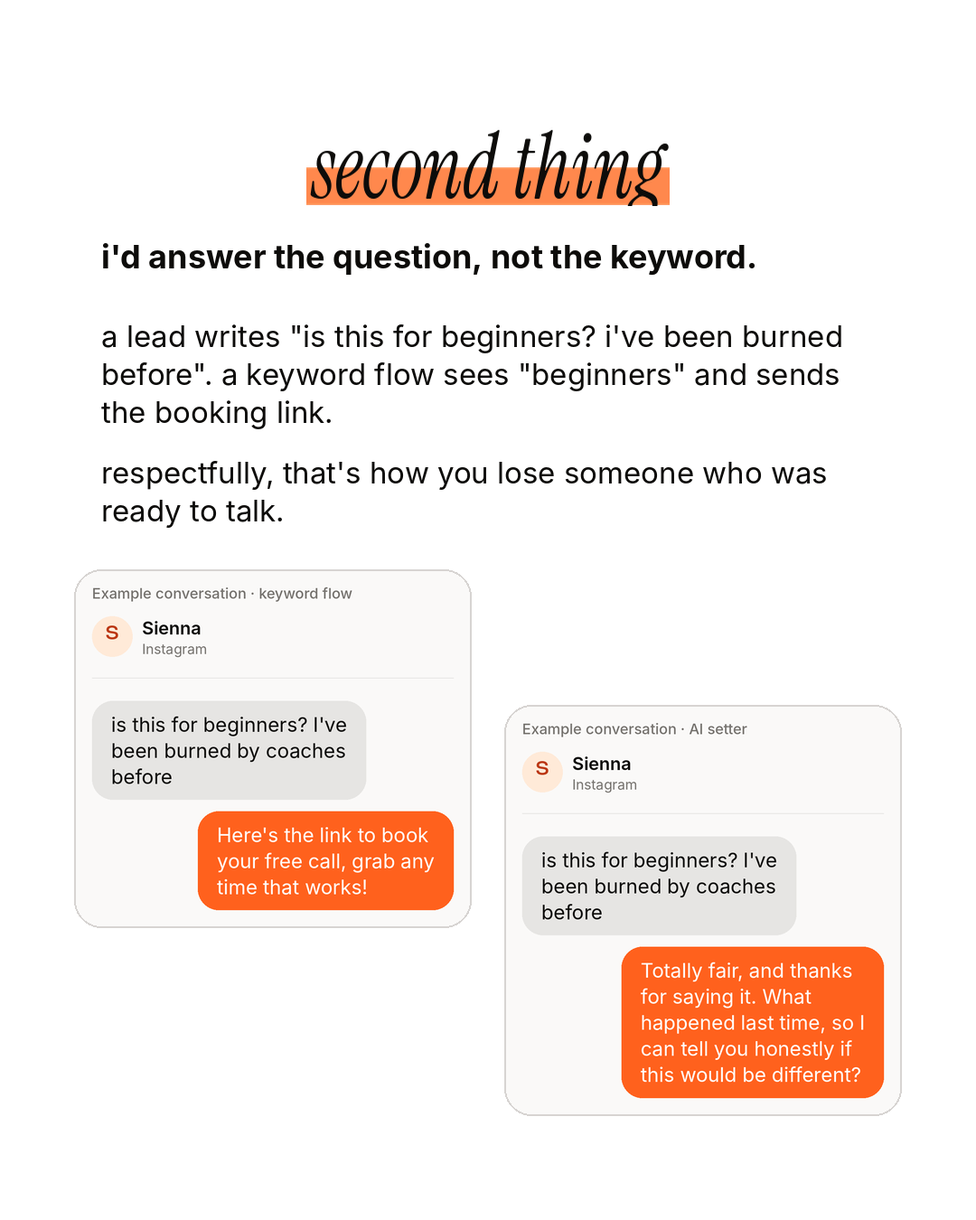
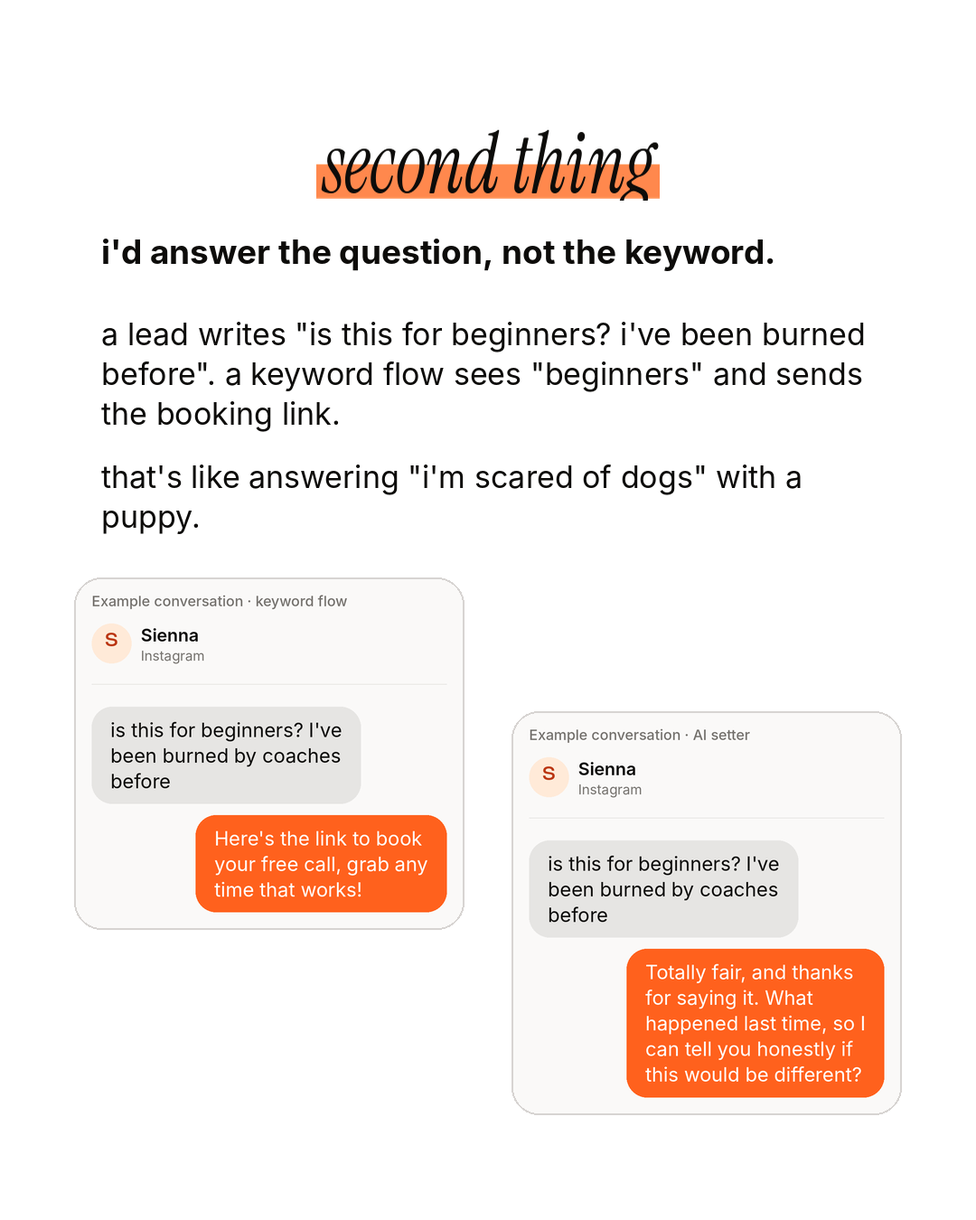
Carrousels v3 : première personne, humour, texte qui remplit la slide
- retour du fondateur noté en règle avant correction
- carrousel.py : taille de texte automatique (la plus grande qui tient),
  titres sans mot orphelin, graphiques qui grossissent avec le texte
- textes et légendes des 3 carrousels réécrits à la 1re personne
- page de revue republiée (même lien)

diff --git a/CONTENU/00_STRATEGIE/revues/2026-10-10_revue.html b/CONTENU/00_STRATEGIE/revues/2026-10-10_revue.html
@@ -108,7 +108,7 @@ hr.sep { border: none; border-top: 1px solid var(--line); margin: 8px 0 0; }
   <header class="top">
     <div class="eyebrow">Revue du lot · <span id="count">3</span> posts</div>
     <h1>Chaque post comme il apparaîtra sur Instagram</h1>
-    <p class="lede"><b>Nouvelle version du 10/10 après ton retour : les 3 carrousels sont refaits dans le style du compte de référence (titres étirés, surligneur orange, images du produit, ton parlé).</b> Fais défiler les slides, lis la légende, puis coche OK ou À corriger. Tes retours sont enregistrés ici et je les relis directement ; chaque retour devient une règle avant correction. Rien n'est programmé sans ton accord, post par post.</p>
+    <p class="lede"><b>Version 3 du 10/10, après ton 2e retour : tout est à la 1re personne (« i » = toi, le fondateur), phrases simples avec une blague par-ci par-là, et le texte grossit pour remplir chaque slide.</b> Fais défiler les slides, lis la légende, puis coche OK ou À corriger. Tes retours sont enregistrés ici et je les relis directement ; chaque retour devient une règle avant correction. Rien n'est programmé sans ton accord, post par post.</p>
   </header>
 
   <div class="bar">
@@ -128,7 +128,7 @@ hr.sep { border: none; border-top: 1px solid var(--line); margin: 8px 0 0; }
   <section id="panel-profile" role="tabpanel" aria-labelledby="tab-profile" hidden style="display:grid;gap:18px"></section>
 </div>
 
-<script id="data" type="application/json">{"posts": [{"id": "261010_CAR_S1_AV1_if-i-were-a-coach", "format": "carrousel", "segment": "S1 et S2", "avatar": "AV1", "role": "candidat à l'épingle n° 1 (présentation par la valeur)", "cta": "lien en bio (ManySetter pas encore branché sur le compte)", "verbatims": ["rd13", "rd91", "rd43", "rd22", "mc07", "rd17", "mc01"], "caption": "Instagram DMs for coaches: if I sold my coaching in the DMs, here's exactly how I'd handle my inbox.\n\nThe comments came in, the guide went out, and then the real job starts: \"how much?\", \"is this for beginners?\", \"I'll think about it\". Three things I'd change, starting tonight.\n\n1. Send the price and one question in the same message, never the price and silence.\n2. Answer the question, not the keyword.\n3. Only send your calendar to the right people, and give everyone else something useful.\n\nHow many of the 3 do you already do? Tell me in the comments.\n\nBuild your setter free, link in bio.\n\n#instagramdms #onlinecoach #manychat", "slides": ["posts/261010_CAR_S1_AV1_if-i-were-a-coach/slide-01.png", "posts/261010_CAR_S1_AV1_if-i-were-a-coach/slide-02.png", "posts/261010_CAR_S1_AV1_if-i-were-a-coach/slide-03.png", "posts/261010_CAR_S1_AV1_if-i-were-a-coach/slide-04.png", "posts/261010_CAR_S1_AV1_if-i-were-a-coach/slide-05.png", "posts/261010_CAR_S1_AV1_if-i-were-a-coach/slide-06.png", "posts/261010_CAR_S1_AV1_if-i-were-a-coach/slide-07.png", "posts/261010_CAR_S1_AV1_if-i-were-a-coach/slide-08.png", "posts/261010_CAR_S1_AV1_if-i-were-a-coach/slide-09.png", "posts/261010_CAR_S1_AV1_if-i-were-a-coach/slide-10.png"]}, {"id": "261010_CAR_S2_AV2_which-reply-books", "format": "carrousel", "segment": "S2", "avatar": "AV2", "role": "vote chiffré (hypothèse H2)", "cta": "lien en bio (ManySetter pas encore branché sur le compte)", "verbatims": ["rd13", "rd91", "rd14", "mc01"], "caption": "How to answer \"how much is it?\" in your Instagram DMs, and still book the call.\n\nSame lead, same question, 4 replies. Only one of them answers the price and learns who the lead is. Swipe for the vote, then for why the other three lose the lead.\n\n1, 2, 3 or 4? Tell me your number in the comments.\n\nThese are example conversations, not real clients. Want to see how an AI setter would answer on your own offer? Build your setter free, link in bio.\n\n#instagramdms #highticketsales #appointmentsetter", "slides": ["posts/261010_CAR_S2_AV2_which-reply-books/slide-01.png", "posts/261010_CAR_S2_AV2_which-reply-books/slide-02.png", "posts/261010_CAR_S2_AV2_which-reply-books/slide-03.png", "posts/261010_CAR_S2_AV2_which-reply-books/slide-04.png", "posts/261010_CAR_S2_AV2_which-reply-books/slide-05.png", "posts/261010_CAR_S2_AV2_which-reply-books/slide-06.png", "posts/261010_CAR_S2_AV2_which-reply-books/slide-07.png", "posts/261010_CAR_S2_AV2_which-reply-books/slide-08.png"]}, {"id": "261010_CAR_S1_AV1_things-coaches-do", "format": "carrousel", "segment": "S1", "avatar": "AV1", "role": "contournements, autodérision (série « Things coaches do before… »)", "cta": "lien en bio (ManySetter pas encore branché sur le compte)", "verbatims": ["rd01", "rd40", "rd85", "rd86", "mc03", "rd17"], "caption": "Instagram DMs for coaches: the things we all did to keep up when a post worked a little too well.\n\nDMing 40 people by hand. Paying a friend to reply. Voice notes to sound more human. A notes app full of copy and paste. Following up once and feeling desperate about it.\n\nWhich number are you? Tell me in the comments, no judgment here.\n\nManySetter is an AI setter for Manychat. Your flow still sends the first message, and the setter takes over when the lead replies. Build your setter free, link in bio.\n\n#instagramdms #onlinecoach #manychat", "slides": ["posts/261010_CAR_S1_AV1_things-coaches-do/slide-01.png", "posts/261010_CAR_S1_AV1_things-coaches-do/slide-02.png", "posts/261010_CAR_S1_AV1_things-coaches-do/slide-03.png", "posts/261010_CAR_S1_AV1_things-coaches-do/slide-04.png", "posts/261010_CAR_S1_AV1_things-coaches-do/slide-05.png", "posts/261010_CAR_S1_AV1_things-coaches-do/slide-06.png", "posts/261010_CAR_S1_AV1_things-coaches-do/slide-07.png"]}], "profile": {"handle": "manysetter", "handle_note": "nom de compte provisoire : le compte de publication n'est pas encore choisi", "name_options": [{"label": "A (recommandé)", "text": "ManySetter | AI DM Setter for Manychat"}, {"label": "B", "text": "ManySetter | AI Appointment Setter for DMs"}], "bio_options": [{"label": "A (recommandée)", "text": "AI setter for Manychat: qualifies your DMs, books the call.\nTested by 100+ marketing agencies.\nBuild your setter free, no card to start 👇"}, {"label": "B", "text": "Keep your Manychat, add the setter.\nIt qualifies your Instagram DMs and books the call.\nFor coaches who sell on a call 👇"}], "link": "manysetter.com", "pins": ["261010_CAR_S1_AV1_if-i-were-a-coach", "261010_CAR_S2_AV2_which-reply-books"], "grid_order": ["261010_CAR_S1_AV1_things-coaches-do", "261010_CAR_S2_AV2_which-reply-books", "261010_CAR_S1_AV1_if-i-were-a-coach"], "placeholders": ["Épingle n° 3 : « not for you if… » (prochain lot)", "Reel d'Ivy (après validation de sa planche)", "Carrousel du lot 2", "Image publiée en reel", "Carrousel du lot 2", "Reel d'Ivy"]}}</script>
+<script id="data" type="application/json">{"posts": [{"id": "261010_CAR_S1_AV1_if-i-were-a-coach", "format": "carrousel", "segment": "S1 et S2", "avatar": "AV1", "role": "candidat à l'épingle n° 1 (présentation par la valeur)", "cta": "lien en bio (ManySetter pas encore branché sur le compte)", "verbatims": ["rd13", "rd91", "rd43", "rd22", "mc07", "rd17", "mc01"], "caption": "Instagram DMs for coaches: if I sold my coaching in the DMs, here's exactly how I'd handle my inbox.\n\nThe comments came in, the guide went out, and then the real job starts: \"how much?\", \"is this for beginners?\", \"I'll think about it\". Usually at 11:47 pm, from the couch. Here are the three things I'd change tonight.\n\n1. I'd send the price and one question in the same message. Never the price and silence.\n2. I'd answer the question, not the keyword.\n3. I'd only send my calendar to the right people, and give everyone else something useful.\n\nHow many of the 3 do you already do? Tell me in the comments. Zero is a valid answer.\n\nI built ManySetter, an AI setter for Manychat. Build your setter free, link in bio.\n\n#instagramdms #onlinecoach #manychat", "slides": ["posts/261010_CAR_S1_AV1_if-i-were-a-coach/slide-01.png", "posts/261010_CAR_S1_AV1_if-i-were-a-coach/slide-02.png", "posts/261010_CAR_S1_AV1_if-i-were-a-coach/slide-03.png", "posts/261010_CAR_S1_AV1_if-i-were-a-coach/slide-04.png", "posts/261010_CAR_S1_AV1_if-i-were-a-coach/slide-05.png", "posts/261010_CAR_S1_AV1_if-i-were-a-coach/slide-06.png", "posts/261010_CAR_S1_AV1_if-i-were-a-coach/slide-07.png", "posts/261010_CAR_S1_AV1_if-i-were-a-coach/slide-08.png", "posts/261010_CAR_S1_AV1_if-i-were-a-coach/slide-09.png", "posts/261010_CAR_S1_AV1_if-i-were-a-coach/slide-10.png"]}, {"id": "261010_CAR_S2_AV2_which-reply-books", "format": "carrousel", "segment": "S2", "avatar": "AV2", "role": "vote chiffré (hypothèse H2)", "cta": "lien en bio (ManySetter pas encore branché sur le compte)", "verbatims": ["rd13", "rd91", "rd14", "mc01"], "caption": "How to answer \"how much is it?\" in your Instagram DMs, and still book the call.\n\nSame lead, same question, 4 replies. Only one of them answers the price and learns who the lead is. Swipe for the vote, then for why the other three lose the lead.\n\n1, 2, 3 or 4? Tell me your number in the comments. No cheating.\n\nThese are example conversations, not real clients. Reply 4 is the kind of answer my AI setter writes, from your offer and in your voice. Build your setter free, link in bio.\n\n#instagramdms #highticketsales #appointmentsetter", "slides": ["posts/261010_CAR_S2_AV2_which-reply-books/slide-01.png", "posts/261010_CAR_S2_AV2_which-reply-books/slide-02.png", "posts/261010_CAR_S2_AV2_which-reply-books/slide-03.png", "posts/261010_CAR_S2_AV2_which-reply-books/slide-04.png", "posts/261010_CAR_S2_AV2_which-reply-books/slide-05.png", "posts/261010_CAR_S2_AV2_which-reply-books/slide-06.png", "posts/261010_CAR_S2_AV2_which-reply-books/slide-07.png", "posts/261010_CAR_S2_AV2_which-reply-books/slide-08.png"]}, {"id": "261010_CAR_S1_AV1_things-coaches-do", "format": "carrousel", "segment": "S1", "avatar": "AV1", "role": "contournements, autodérision (série « Things coaches do before… »)", "cta": "lien en bio (ManySetter pas encore branché sur le compte)", "verbatims": ["rd01", "rd40", "rd85", "rd86", "mc03", "rd17"], "caption": "Instagram DMs for coaches: the things we all did to keep up when a post worked a little too well.\n\nDMing 40 people by hand. Paying a friend to reply. Voice notes to sound more human. A notes app full of copy and paste. Following up once and feeling desperate about it.\n\nWhich number are you? Tell me in the comments, no judgment here. If it's all six, you get a virtual hug.\n\nI built ManySetter, an AI setter for Manychat. Your flow still sends the first message, and the setter takes over when the lead replies. Build your setter free, link in bio.\n\n#instagramdms #onlinecoach #manychat", "slides": ["posts/261010_CAR_S1_AV1_things-coaches-do/slide-01.png", "posts/261010_CAR_S1_AV1_things-coaches-do/slide-02.png", "posts/261010_CAR_S1_AV1_things-coaches-do/slide-03.png", "posts/261010_CAR_S1_AV1_things-coaches-do/slide-04.png", "posts/261010_CAR_S1_AV1_things-coaches-do/slide-05.png", "posts/261010_CAR_S1_AV1_things-coaches-do/slide-06.png", "posts/261010_CAR_S1_AV1_things-coaches-do/slide-07.png"]}], "profile": {"handle": "manysetter", "handle_note": "nom de compte provisoire : le compte de publication n'est pas encore choisi", "name_options": [{"label": "A (recommandé)", "text": "ManySetter | AI DM Setter for Manychat"}, {"label": "B", "text": "ManySetter | AI Appointment Setter for DMs"}], "bio_options": [{"label": "A (recommandée)", "text": "AI setter for Manychat: qualifies your DMs, books the call.\nTested by 100+ marketing agencies.\nBuild your setter free, no card to start 👇"}, {"label": "B", "text": "Keep your Manychat, add the setter.\nIt qualifies your Instagram DMs and books the call.\nFor coaches who sell on a call 👇"}], "link": "manysetter.com", "pins": ["261010_CAR_S1_AV1_if-i-were-a-coach", "261010_CAR_S2_AV2_which-reply-books"], "grid_order": ["261010_CAR_S1_AV1_things-coaches-do", "261010_CAR_S2_AV2_which-reply-books", "261010_CAR_S1_AV1_if-i-were-a-coach"], "placeholders": ["Épingle n° 3 : « not for you if… » (prochain lot)", "Reel d'Ivy (après validation de sa planche)", "Carrousel du lot 2", "Image publiée en reel", "Carrousel du lot 2", "Reel d'Ivy"]}}</script>
 <script>
 const DATA = JSON.parse(document.getElementById('data').textContent);
 const state = {};           // id -> {verdict, note}

diff --git a/CONTENU/06_GABARITS/carrousel.py b/CONTENU/06_GABARITS/carrousel.py
@@ -91,18 +91,30 @@ def title_tokens(text: str):
 def serif_title(text: str, size: int, c: dict, align: str = "center") -> Image.Image:
     fr, fi = font(SERIF, size), font(SERIF_I, size)
     space = fr.getlength(" ")
-    lines, cur, cur_w = [], [], 0.0
-    for w, m in title_tokens(text):
-        ww = (fi if m else fr).getlength(w)
-        add = ww + (space if cur else 0)
-        if cur and cur_w + add > CW:
-            lines.append(cur)
-            cur, cur_w = [], 0.0
-            add = ww
-        cur.append((w, m, ww))
-        cur_w += add
-    if cur:
-        lines.append(cur)
+    toks = title_tokens(text)
+
+    def wrap(width):
+        lines, cur, cur_w = [], [], 0.0
+        for w, m in toks:
+            ww = (fi if m else fr).getlength(w)
+            add = ww + (space if cur else 0)
+            if cur and cur_w + add > width:
+                lines.append(cur)
+                cur, cur_w = [], 0.0
+                add = ww
+            cur.append((w, m, ww))
+            cur_w += add
+        return lines + ([cur] if cur else [])
+
+    lines = wrap(CW)
+    # pas de mot tout seul sur la dernière ligne : on resserre jusqu'à équilibrer
+    width = CW
+    while len(lines) > 1 and len(lines[-1]) == 1 and width > CW * 0.6:
+        width -= 20
+        tried = wrap(width)
+        if len(tried) > len(lines):
+            break
+        lines = tried
     lh = int(size * 0.98)
     imgs = []
     for line in lines:
@@ -247,13 +259,13 @@ def collage(paths: list[str], width: int = 520) -> Image.Image:
 
 # --- Graphiques épurés ---------------------------------------------------------------
 
-def _axes(d, c, x0, y0, x1, y1, xl, yl):
+def _axes(d, c, x0, y0, x1, y1, xl, yl, k=1.0):
     d.line([x0, y1, x1, y1], fill=c["line"], width=3)
     d.line([x0, y0, x0, y1], fill=c["line"], width=3)
-    f = font(SANS_SB, 22)
+    f = font(SANS_SB, int(22 * k))
     t = xl.upper()
-    d.text(((x0 + x1) / 2, y1 + 66), t, font=f, fill=c["muted"], anchor="mm")
-    lab = Image.new("RGBA", (int(f.getlength(yl.upper())) + 40, 34), (0, 0, 0, 0))
+    d.text(((x0 + x1) / 2, y1 + int(66 * k)), t, font=f, fill=c["muted"], anchor="mm")
+    lab = Image.new("RGBA", (int(f.getlength(yl.upper())) + 40, int(34 * k)), (0, 0, 0, 0))
     ImageDraw.Draw(lab).text((20, 4), yl.upper(), font=f, fill=c["muted"])
     return lab.rotate(90, expand=True)
 
@@ -274,29 +286,29 @@ def smooth(pts: list, steps: int = 14) -> list:
     return out + [pts[-1]]
 
 
-def chart(spec: dict, c: dict) -> Image.Image:
+def chart(spec: dict, c: dict, k: float = 1.0) -> Image.Image:
     kind = spec["chart"]
-    h = spec.get("height", 700)
+    h = int(spec.get("height", 700) * min(k, 1.3))
     im = Image.new("RGBA", (W, h), (0, 0, 0, 0))
     d = ImageDraw.Draw(im)
-    fb, fs = font(SANS_B, 26), font(SANS, 22)
+    fb, fs = font(SANS_B, int(26 * k)), font(SANS, int(22 * k))
     if kind in ("quadrant", "curve"):
-        x0, y0, x1, y1 = MX + 60, 20, W - MX, h - 80
-        lab = _axes(d, c, x0, y0, x1, y1, spec.get("x", ""), spec.get("y", ""))
+        x0, y0, x1, y1 = MX + 60, 20, W - MX, h - int(84 * k)
+        lab = _axes(d, c, x0, y0, x1, y1, spec.get("x", ""), spec.get("y", ""), k)
         im.alpha_composite(lab, (MX - 10, int((y0 + y1) / 2 - lab.height / 2)))
         X = lambda v: x0 + v * (x1 - x0)
         Y = lambda v: y1 - v * (y1 - y0)
         if kind == "quadrant":
-            for k in range(0, int(x1 - x0), 18):
-                d.line([x0 + k, Y(0.5), x0 + k + 8, Y(0.5)], fill=c["line"], width=2)
-            for k in range(0, int(y1 - y0), 18):
-                d.line([X(0.5), y0 + k, X(0.5), y0 + k + 8], fill=c["line"], width=2)
+            for q in range(0, int(x1 - x0), 18):
+                d.line([x0 + q, Y(0.5), x0 + q + 8, Y(0.5)], fill=c["line"], width=2)
+            for q in range(0, int(y1 - y0), 18):
+                d.line([X(0.5), y0 + q, X(0.5), y0 + q + 8], fill=c["line"], width=2)
             for note in spec.get("corners", []):
                 pos = {"tl": (X(0.03), Y(0.96), "la"), "br": (X(0.97), Y(0.04), "rd"),
                        "tr": (X(0.97), Y(0.96), "ra"), "bl": (X(0.03), Y(0.04), "ld")}[note["at"]]
                 d.text(pos[:2], note["text"], font=fs, fill=c["muted"], anchor=pos[2])
             for p in spec["points"]:
-                r = 22 if p.get("strong") else 15
+                r = int((22 if p.get("strong") else 15) * k)
                 cx, cy = X(p["x"]), Y(p["y"])
                 d.ellipse([cx - r, cy - r, cx + r, cy + r], fill=ORANGE if p.get("strong") else c["fg"])
                 anchor = p.get("anchor", "lm")
@@ -306,7 +318,10 @@ def chart(spec: dict, c: dict) -> Image.Image:
             if spec.get("ref"):
                 ref = spec["ref"]
                 d.line([X(0), Y(ref["y0"]), X(1), Y(ref["y1"])], fill=c["line"], width=4)
-                d.text((X(1), Y(ref["y1"]) - 22), ref["label"], font=fs, fill=c["muted"], anchor="rb")
+                if ref.get("label_at") == "below-left":
+                    d.text((X(0.06), Y(ref["y0"]) + int(14 * k)), ref["label"], font=fs, fill=c["muted"], anchor="la")
+                else:
+                    d.text((X(1), Y(ref["y1"]) - int(22 * k)), ref["label"], font=fs, fill=c["muted"], anchor="rb")
             pts = smooth([(X(x), Y(y)) for x, y in spec["points"]])
             if spec.get("gap") and spec.get("ref"):
                 # zone surlignée entre la courbe et la ligne de référence (au-dessus de la ligne)
@@ -322,33 +337,34 @@ def chart(spec: dict, c: dict) -> Image.Image:
             if a:
                 ax, ay = X(a["x"]), Y(a["y"])
                 d.ellipse([ax - 16, ay - 16, ax + 16, ay + 16], fill=ORANGE)
-                if ay - 150 >= 0:
-                    d.line([ax, ay - 20, ax, ay - 90], fill=c["fg"], width=2)
-                    d.text((ax + 12, ay - 150), a["title"], font=fb, fill=c["fg"])
-                    d.text((ax + 12, ay - 116), a["sub"], font=fs, fill=c["muted"])
+                if ay - 150 * k >= 0:
+                    d.line([ax, ay - 20, ax, ay - int(90 * k)], fill=c["fg"], width=2)
+                    d.text((ax + 12, ay - int(152 * k)), a["title"], font=fb, fill=c["fg"])
+                    d.text((ax + 12, ay - int(118 * k)), a["sub"], font=fs, fill=c["muted"])
                 else:
                     d.line([ax + 20, ay, ax + 70, ay], fill=c["fg"], width=2)
-                    d.text((ax + 84, ay - 30), a["title"], font=fb, fill=c["fg"])
+                    d.text((ax + 84, ay - int(32 * k)), a["title"], font=fb, fill=c["fg"])
                     d.text((ax + 84, ay + 4), a["sub"], font=fs, fill=c["muted"])
             for xv, t in spec.get("ticks", []):
                 d.text((X(xv), y1 + 14), t, font=fs, fill=c["muted"], anchor="ma")
     elif kind == "compare":
         y = 0
+        fr_big, fb_big = font(SANS, int(29 * k)), font(SANS_B, int(29 * k))
         for g in spec["groups"]:
-            lab = label(g["label"], c)
+            lab = label(g["label"], c, size=int(23 * k))
             im.alpha_composite(lab, (0, y))
-            y += 52
-            fr_big, fb_big = font(SANS, 29), font(SANS_B, 29)
+            y += int(52 * k)
             for row in g["rows"]:
                 bw = int(row["w"] * 460)
-                d.rectangle([MX, y, MX + bw, y + 40], fill=c["fg"] if row.get("strong") else c["soft"])
-                d.text((MX + bw + 24, y + 20), row["text"], font=fb_big if row.get("strong") else fr_big,
+                bh = int(40 * k)
+                d.rectangle([MX, y, MX + bw, y + bh], fill=c["fg"] if row.get("strong") else c["soft"])
+                d.text((MX + bw + 24, y + bh / 2), row["text"], font=fb_big if row.get("strong") else fr_big,
                        fill=c["fg"], anchor="lm")
-                y += 66
+                y += int(66 * k)
             if g.get("caption"):
-                d.text((MX, y + 2), g["caption"], font=font(SANS, 25), fill=c["muted"])
-                y += 50
-            y += 34
+                d.text((MX, y + 2), g["caption"], font=font(SANS, int(25 * k)), fill=c["muted"])
+                y += int(50 * k)
+            y += int(34 * k)
         im = im.crop((0, 0, W, y))
     elif kind == "dots":
         y = 0
@@ -383,41 +399,44 @@ def _wrap(text: str, f, width: int) -> list[str]:
     return lines + [cur]
 
 
-def vote(spec: dict, c: dict) -> Image.Image:
-    f = font(SANS, 29)
-    lh = 39
-    im = Image.new("RGBA", (W, 1300), (0, 0, 0, 0))
+def vote(spec: dict, c: dict, k: float = 1.0) -> Image.Image:
+    f = font(SANS, int(min(29 * k, 40)))
+    lh = int(f.size * 1.35)
+    im = Image.new("RGBA", (W, 2000), (0, 0, 0, 0))
     d = ImageDraw.Draw(im)
     y = 0
     if spec.get("incoming"):
-        lines = _wrap(spec["incoming"], f, 560)
+        lines = _wrap(spec["incoming"], f, int(CW * 0.72))
         bw = max(f.getlength(l) for l in lines) + 56
         bh = len(lines) * lh + 34
         d.rounded_rectangle([MX, y, MX + bw, y + bh], radius=30, fill="#ecebe9" if c["bg"] == WHITE else "#2a2826")
         for i, l in enumerate(lines):
             d.text((MX + 28, y + 17 + i * lh), l, font=f, fill=c["fg"])
         y += bh + 40
-    num = font(SERIF, 78)
+    num = font(SERIF, int(f.size * 2.7))
+    bx = MX + int(f.size * 2.6)          # début des cadres de réponse
+    pad = int(f.size * 0.9)
     for i, opt in enumerate(spec["options"], 1):
-        lines = _wrap(opt, f, CW - 130)
+        lines = _wrap(opt, f, W - MX - bx - 2 * pad)
         bh = len(lines) * lh + 34
         d.text((MX + 4, y + bh / 2 + 4), str(i), font=num, fill=ORANGE, anchor="lm")
-        d.rounded_rectangle([MX + 76, y, W - MX, y + bh], radius=22, outline=c["line"], width=2)
-        for k, l in enumerate(lines):
-            d.text((MX + 102, y + 17 + k * lh), l, font=f, fill=c["fg"])
+        d.rounded_rectangle([bx, y, W - MX, y + bh], radius=22, outline=c["line"], width=2)
+        for j, l in enumerate(lines):
+            d.text((bx + pad, y + 17 + j * lh), l, font=f, fill=c["fg"])
         y += bh + 20
     return im.crop((0, 0, W, y - 20))
 
 
 def numbered(items: list[str], c: dict, start: int = 1, size: int = 33) -> Image.Image:
     """Liste numérotée : chiffres en serif orange, texte parlé à droite."""
-    num = font(SERIF, 84)
+    num = font(SERIF, int(size * 2.5))
+    ind = int(size * 2.9)
     parts = []
     for i, it in enumerate(items, start):
-        p = paragraph(it, size, c, width=CW - 96)
-        row = Image.new("RGBA", (W, max(p.height, 80)), (0, 0, 0, 0))
-        row.alpha_composite(p, (96, 0))
-        ImageDraw.Draw(row).text((MX + 4, -14), str(i), font=num, fill=ORANGE)
+        p = paragraph(it, size, c, width=CW - ind)
+        row = Image.new("RGBA", (W, max(p.height, int(size * 2.4))), (0, 0, 0, 0))
+        row.alpha_composite(p, (ind, 0))
+        ImageDraw.Draw(row).text((MX + 4, -int(size * 0.42)), str(i), font=num, fill=ORANGE)
         parts.append(row)
     h = sum(p.height for p in parts) + 30 * (len(parts) - 1)
     out = Image.new("RGBA", (W, h), (0, 0, 0, 0))
@@ -430,43 +449,56 @@ def numbered(items: list[str], c: dict, start: int = 1, size: int = 33) -> Image
 
 # --- Montage d'une slide ------------------------------------------------------------
 
-def block_image(b: dict, c: dict) -> Image.Image:
+def block_image(b: dict, c: dict, k: float = 1.0) -> Image.Image:
+    """Dessine un bloc ; k agrandit le texte (et les images) quand la slide a de la place."""
+    z = lambda v, cap=None: int(min(v * k, cap) if cap else v * k)
     if "title" in b:
-        return serif_title(b["title"], b.get("size", 118), c)
+        return serif_title(b["title"], z(b.get("size", 118), 168), c)
     if "heading" in b:
-        return serif_title(b["heading"], b.get("size", 86), c)
+        return serif_title(b["heading"], z(b.get("size", 86), 128), c)
     if "lead" in b:
-        return paragraph(b["lead"], b.get("size", 36), c, bold_all=True, align=b.get("align", "left"))
+        return paragraph(b["lead"], z(b.get("size", 39), 56), c, bold_all=True, align=b.get("align", "left"))
     if "text" in b:
-        return paragraph(b["text"], b.get("size", 33), c, align=b.get("align", "left"))
+        return paragraph(b["text"], z(b.get("size", 36), 52), c, align=b.get("align", "left"))
     if "label" in b:
-        return label(b["label"], c, align=b.get("align", "left"))
+        return label(b["label"], c, size=z(23, 30), align=b.get("align", "left"))
     if "caption" in b:
-        return paragraph(b["caption"], 23, c, color=c["muted"], align=b.get("align", "left"))
+        return paragraph(b["caption"], z(25, 34), c, color=c["muted"], align=b.get("align", "left"))
+    # le texte d'abord : les images ne grandissent qu'à peine, les graphiques grossissent leurs légendes
+    zi = lambda v, cap: int(min(v * k ** 0.35, cap))
     if "image" in b:
-        return image_block(b)
+        return image_block({**b, "width": zi(b.get("width", 760), CW)})
     if "collage" in b:
-        return collage(b["collage"], b.get("width", 520))
+        return collage(b["collage"], zi(b.get("width", 520), 600))
     if "chart" in b:
-        return chart(b, c)
+        return chart(b, c, min(k, 1.35))
     if "vote" in b:
-        return vote(b["vote"], c)
+        return vote(b["vote"], c, k)
     if "list" in b:
-        return numbered(b["list"], c, b.get("start", 1), b.get("size", 33))
+        return numbered(b["list"], c, b.get("start", 1), z(b.get("size", 36), 52))
     if "spacer" in b:
-        return Image.new("RGBA", (W, b["spacer"]), (0, 0, 0, 0))
+        return Image.new("RGBA", (W, z(b["spacer"])), (0, 0, 0, 0))
     raise ValueError(f"bloc inconnu : {b}")
 
 
+MARGIN = 104                      # marge haute et basse minimale
+SCALES = [x / 100 for x in range(160, 84, -5)]   # 1,60 → 0,85
+
+
 def compose(s: dict) -> Image.Image:
+    """Choisit la plus grande taille de texte qui tient : une slide n'a jamais de grand vide
+    (retour du fondateur du 10/10/2026 : « écris plus gros, ça se lit mieux »)."""
     c = colors(s.get("bg", "white"))
-    parts = [block_image(b, c) for b in s["blocks"]]
-    gaps = [s.get("gap", GAP)] * (len(parts) - 1)
-    total = sum(p.height for p in parts) + sum(gaps)
-    top_min, bottom_min = 96, 96
-    if total > H - top_min - bottom_min:
-        raise SystemExit(f"Slide trop chargée ({total} px pour {H - top_min - bottom_min}) : {s['blocks'][0]}")
-    y = top_min if s.get("valign") == "top" else (H - total) // 2
+    avail = H - 2 * MARGIN
+    for k in ([s["scale"]] if "scale" in s else SCALES):
+        parts = [block_image(b, c, k) for b in s["blocks"]]
+        gaps = [int(s.get("gap", GAP) * max(1.0, k ** 0.5))] * (len(parts) - 1)
+        total = sum(p.height for p in parts) + sum(gaps)
+        if total <= avail:
+            break
+    else:
+        raise SystemExit(f"Slide trop chargée ({total} px pour {avail}) : {s['blocks'][0]}")
+    y = MARGIN if s.get("valign") == "top" else (H - total) // 2
     img = Image.new("RGBA", (W, H), c["bg"])
     for p, g in zip(parts, gaps + [0]):
         img.alpha_composite(p, (0, y))

diff --git a/CONTENU/00_STRATEGIE/retours-validation.md b/CONTENU/00_STRATEGIE/retours-validation.md
@@ -42,3 +42,12 @@ Format d'une règle :
 - Règle : **ton humain**, comme on parle : gros mots autorisés à condition d'être masqués par des astérisques (« sh*t », « f*cking »), décision du fondateur.
 - Retour : « Je vais te remettre le prompt de base […] je veux que tu le suives. »
 - Règle : avant chaque livraison, on vérifie la méthode source partie par partie (`methode-source.md`) et on dit franchement ce qui n'est pas encore fait ou pas connecté.
+
+## 2026-10-10 · Carrousels refaits dans le style du compte de référence (2e retour)
+- Retour : « Okay j'aime beaucoup plus. »
+- Règle : le style éditorial de `carrousel.py` (titres serif étirés, surligneur orange, visuels épurés, slide noire, « quick pause ») est la base des carrousels. On ne revient pas à l'ancien gabarit.
+- Retour : « Je veux que tu parles à la première personne et que tu utilises des phrases simples et drôles de temps en temps, je ne veux pas d'un truc trop sérieux. »
+- Règle : **les carrousels parlent à la première personne** (« i »), du début à la fin, y compris la présentation de ManySetter (« i built ManySetter », jamais « we » ni la marque qui parle d'elle à la 3e personne). Le « i » est le fondateur, sans le nommer tant qu'il ne l'a pas demandé.
+- Règle : **phrases simples**, une idée par phrase, et **une blague ou une phrase drôle de temps en temps** (au moins une par carrousel, sur la slide qui s'y prête). Le ton reste léger, jamais professoral.
+- Retour : « Des fois il reste plein de place dans les carrousels et il y a des gros espaces blancs : dans ces cas-là, écris plus gros, ça se lit mieux. »
+- Règle : **le texte remplit la slide**. Quand une slide a de la place, le texte grossit jusqu'à la remplir (`carrousel.py` le fait seul : il essaie la plus grande taille qui tient). Une slide à moitié vide est un défaut à corriger avant livraison.

diff --git a/CONTENU/06_GABARITS/README.md b/CONTENU/06_GABARITS/README.md
@@ -12,7 +12,8 @@ python3 CONTENU/06_GABARITS/carrousel.py CONTENU/07_PRET_A_PUBLIER/<id>/post.jso
 
 Le style :
 - titres en Instrument Serif (licence OFL) étirée de 16 % en hauteur, en minuscules ; `*mots*` en italique avec le surligneur orange sous le bas des lettres (en orange sur fond noir) ;
-- texte courant en Inter, parlé, en minuscules, aligné à gauche ; `**gras**` pour la phrase-thèse ; gros mots masqués en écrivant `\*` (« h\*ll », « d\*mn ») ;
+- texte courant en Inter, parlé, **à la première personne**, en minuscules, aligné à gauche, phrases simples et une phrase drôle de temps en temps ; `**gras**` pour la phrase-thèse ; gros mots masqués en écrivant `\*` (« h\*ll », « d\*mn ») ;
+- **le texte remplit la slide** : le script essaie la plus grande taille qui tient (jusqu'à 1,6 ×), le texte d'abord, les images grandissent à peine ; un titre ne finit jamais par un mot tout seul ;
 - une idée = une slide de texte, souvent suivie d'une slide visuelle épurée : graphique (`quadrant`, `curve` avec `gap`, `compare`, `dots`), capture du produit (`03_PRODUIT_REF/site/`), écran DM (`05_BANQUE_IMAGES/ecrans/`), collage de deux images ;
 - une slide noire pour la phrase choc ; une « quick pause » qui présente ManySetter avec une capture ; ni numéro de slide ni logo ; CTA en texte à la dernière slide (« build your setter free, link in bio » tant que ManySetter n'est pas branché sur le compte).
 
